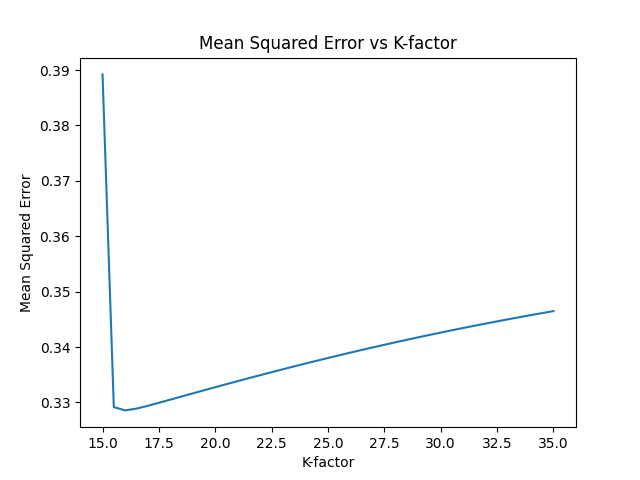
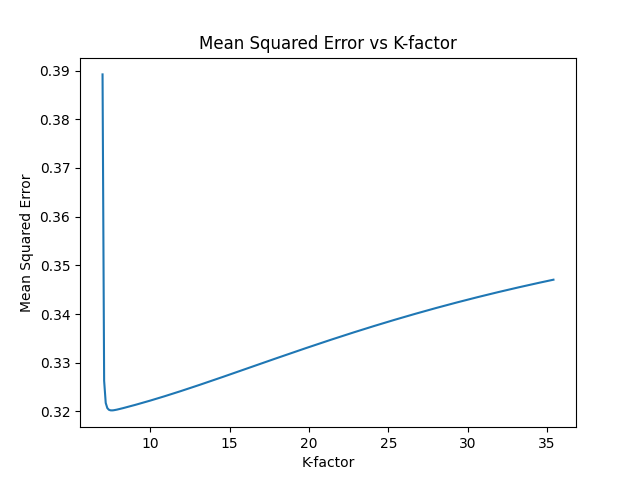
[ADD] Simluations [TRIES ON] K Factor range

diff --git a/step4_bestHFAandK.py b/step4_bestHFAandK.py
@@ -2,22 +2,16 @@ import pandas as pd
 import numpy as np
 import matplotlib.pyplot as plt
 
+# Load data
 df = pd.read_csv("premier_league_scores_and_fixtures.csv")
 
-## -------------------- Elo ratings dictionary by teams ------------------- ##
-# Initialize Elo ratings dictionary
-# by 1600 : the mid number between 200~3000
+# Initialize Elo ratings
 teams = df['Home'].unique().tolist()
-# print(teams)
-elo_ratings = {team: 1600 for team in set(teams)} 
+elo_ratings = {team: 1600 for team in set(teams)}
 
-
-## -------------------- function: calculate  expected score ------------------- ##
-
+# Functions
 def expected_score(rating1, rating2):
     return 1 / (1 + 10**((rating2 - rating1) / 400))
-
-## -------------------- function: update Elo ratings ------------------- ##
 
 def update_elo_ratings(home_team, away_team, home_goals, away_goals, K, HFA):
     home_rating = elo_ratings[home_team] + HFA
@@ -39,7 +33,6 @@ def update_elo_ratings(home_team, away_team, home_goals, away_goals, K, HFA):
     elo_ratings[home_team] = new_home_rating
     elo_ratings[away_team] = new_away_rating
 
-# Function to encode match result
 def encode_result(home_score, away_score):
     if home_score > away_score:
         return 1, 0
@@ -48,7 +41,7 @@ def encode_result(home_score, away_score):
     else:
         return 0.5, 0.5
 
-#### -------------------------------------------------------------------------------------------------------------------------------------------- ####
+# Grid search for K and HFA
 K_values = np.arange(15, 35.5, 0.5)
 HFA_values = np.arange(0, 101, 1)
 errors = np.zeros((len(K_values), len(HFA_values)))
@@ -96,9 +89,15 @@ best_HFA = HFA_values[best_index[1]]
 print(f"The best K-factor is: {best_K}")
 print(f"The best Home Field Advantage (HFA) is: {best_HFA}")
 
-# Update elo ratings with best K and HFA
-ratings = elo_ratings.copy()
-for index, row in df.iterrows():
-    update_elo_ratings(row['Home'], row['Away'], row['Home_Score'], row['Away_Score'], best_K, best_HFA)
+##### RESULT ######
+# The best K-factor is: 15.0
+# The best Home Field Advantage (HFA) is: 47
 
-print(elo_ratings)
+
+
+# # Update elo ratings with best K and HFA
+# elo_ratings = {team: 1600 for team in set(teams)}
+# for index, row in df.iterrows():
+#     update_elo_ratings(row['Home'], row['Away'], row['Home_Score'], row['Away_Score'], best_K, best_HFA)
+
+# print(elo_ratings)

diff --git a/step5_montecarlo.py b/step5_montecarlo.py
@@ -1,0 +1,66 @@
+import pandas as pd
+
+df = pd.read_csv("EPL_23_24season.csv")
+teams = df['Home'].unique().tolist()
+elo_ratings = {team: 1600 for team in set(teams)} 
+
+# Elo rating parameters
+K = 16
+HFA = 47
+
+def update_elo(home_team, away_team, home_goals, away_goals, elo_ratings, K, HFA):
+    home_elo = elo_ratings[home_team] + HFA
+    away_elo = elo_ratings[away_team]
+    
+    expected_home = 1 / (1 + 10 ** ((away_elo - home_elo) / 400))
+    expected_away = 1 - expected_home
+    
+    if home_goals > away_goals:
+        actual_home = 1
+        actual_away = 0
+    elif home_goals < home_goals:
+        actual_home = 0
+        actual_away = 1
+    else:
+        actual_home = 0.5
+        actual_away = 0.5
+    
+    elo_ratings[home_team] += K * (actual_home - expected_home)
+    elo_ratings[away_team] += K * (actual_away - expected_away)
+    
+    return elo_ratings
+
+
+def simulate_season(df, initial_elo, K, HFA, num_simulations=10000):
+    teams = list(initial_elo.keys())
+    results = {team: [] for team in teams}
+    
+    for _ in range(num_simulations):
+        elo_ratings = initial_elo.copy()
+        for _, row in df.iterrows():
+            home_team = row['Home']
+            away_team = row['Away']
+            home_goals = row['Home_Score']
+            away_goals = row['Away_Score']
+            
+            elo_ratings = update_elo(home_team, away_team, home_goals, away_goals, elo_ratings, K, HFA)
+        
+        for team in teams:
+            results[team].append(elo_ratings[team])
+    
+    return results
+
+# Run the simulation
+simulation_results = simulate_season(df, elo_ratings, K, HFA, num_simulations=10000)
+
+# Convert the results to a DataFrame for analysis
+df_simulation_results = pd.DataFrame(simulation_results)
+
+# # Display the simulation results
+# import ace_tools as tools; 
+# tools.display_dataframe_to_user(name="Simulation Results", dataframe=df_simulation_results)
+
+# df_simulation_results.describe()
+
+
+

diff --git a/step2_K_factor.py b/step2_K_factor.py
@@ -8,7 +8,6 @@ df = pd.read_csv("premier_league_scores_and_fixtures.csv")
 # Initialize Elo ratings dictionary
 # by 1600 : the mid number between 200~3000
 teams = df['Home'].unique().tolist()
-# print(teams)
 elo_ratings = {team: 1600 for team in set(teams)} 
 
 # adjustinng K
@@ -54,7 +53,9 @@ def encode_result(home_score, away_score):
     
 # Test different K values
 # K_values = np.arange(7, 25.1, 0.1)
-K_values = np.arange(15, 35.5, 0.5)
+# K_values = np.arange(0, 35.5, 0.5)
+K_values = np.arange(7, 35.5, 0.1)
+
 errors = []
 
 for K in K_values:

diff --git a/step3_HFA.py b/step3_HFA.py
@@ -52,7 +52,7 @@ def encode_result(home_score, away_score):
         return 0.5, 0.5
 
 #### -------------------------------------------------------------------------------------------------------------------------------------------- ####
-K = 16 #from step2 py file  
+K = 7.6 #from step2 py file  
 HFA_values = np.arange(0, 101, 1)  # Home Field Advantage values from 0 to 100 in increments of 1
 errors = []
 
